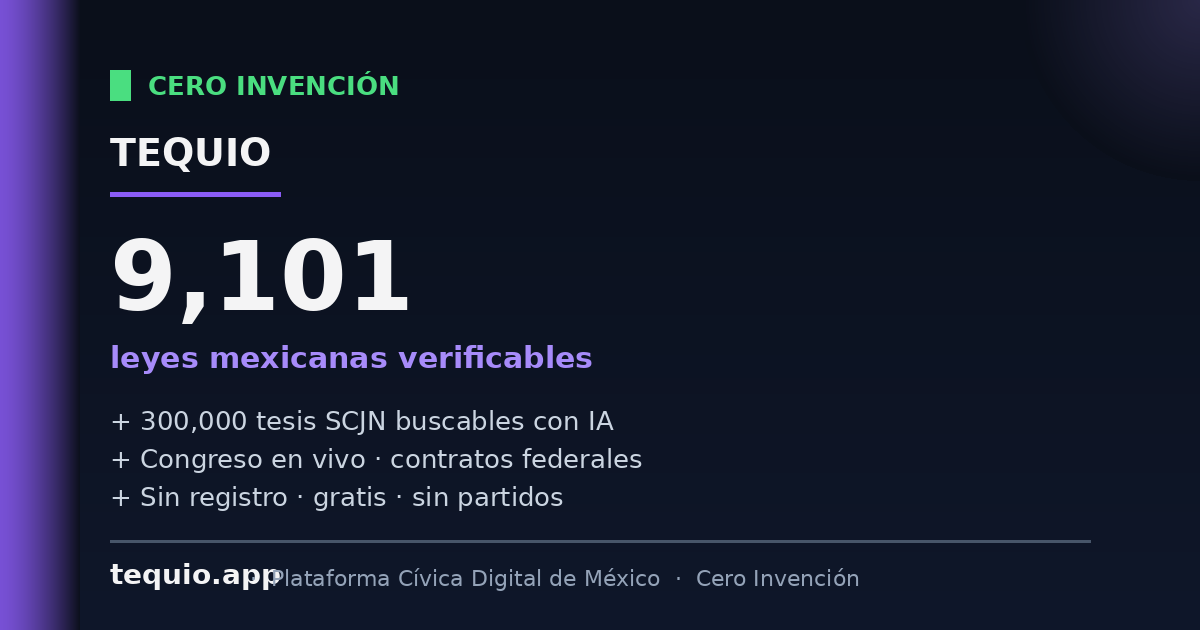
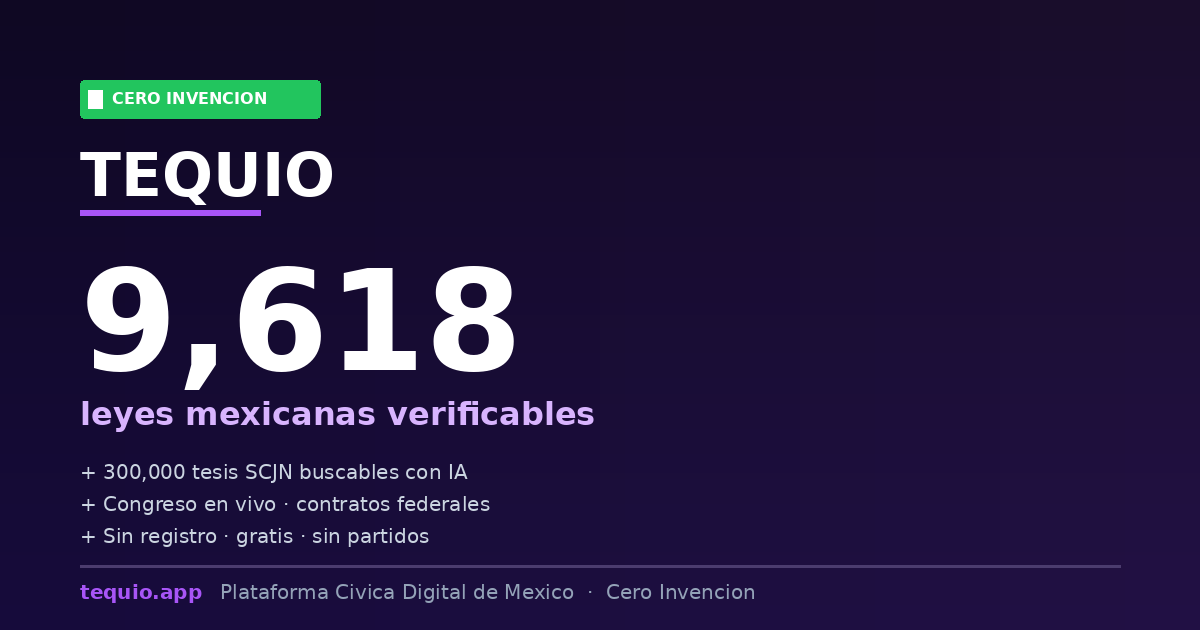
fix(og): regenerar og-image.png con cifra real + auto-refresh weekly
Bug detectado por usuario el 13-jun: WhatsApp link preview mostraba
9,101 leyes pero la app servia 9,618. Root cause: og-image.png era
PNG estatico horneado con cifra vieja (9,101). WhatsApp/Telegram
renderizan el PNG, no los meta tags.

Fix:
- scripts/generate_og_image.py: regenera el PNG con cifra actual
  desde kpis_globales_cache (Pillow + requests, 156 lineas).
- og-image.png: regenerado con 9,618 leyes (la cifra honesta post
  exclusion de 56 fantasmas).
- .github/workflows/og-image-refresh.yml: cron lunes 09:00 UTC +
  workflow_run tras sync-kpis-fallback + commit auto si cambio.

Asi nunca mas mienten las cifras de las previews sociales.

Heads-up: WhatsApp cachea OG aggresively (~7-30 dias). Para forzar
refresh hoy, usar https://developers.facebook.com/tools/debug/
con la URL https://tequio.app

Refs #2

Changed region(s): [[0.0, 0.0, 1.0, 1.0], [0.9867, 0.2714, 1.0, 0.3016], [0.9867, 0.0, 1.0, 0.0302]]

diff --git a/scripts/generate_og_image.py b/scripts/generate_og_image.py
@@ -1,0 +1,156 @@
+#!/usr/bin/env python3
+"""
+generate_og_image.py - regenerate og-image.png with current Supabase counts.
+
+Bug detectado 13-jun-2026: og-image.png era estatica con "9,101 leyes"
+mientras la app servia 9,618. WhatsApp/Telegram renderizan el PNG, no
+los meta tags, asi que el preview mentia.
+
+Fix: este script reads count actual desde Supabase, genera PNG nuevo
+con PIL, sobreescribe og-image.png. Ejecutar:
+  python3 scripts/generate_og_image.py
+o desde GH Actions (weekly cron).
+
+Env vars:
+  SUPABASE_URL, SUPABASE_ANON_KEY
+
+Refs #2
+"""
+import os
+import sys
+import requests
+from PIL import Image, ImageDraw, ImageFont
+
+SUPABASE_URL = os.environ.get('SUPABASE_URL', '').rstrip('/')
+ANON = os.environ.get('SUPABASE_ANON_KEY', '')
+OUT_PATH = os.environ.get('OG_OUT', 'og-image.png')
+
+if not (SUPABASE_URL and ANON):
+    print('FATAL: SUPABASE_URL/SUPABASE_ANON_KEY missing', flush=True)
+    sys.exit(1)
+
+
+def get_kpis():
+    r = requests.get(
+        f'{SUPABASE_URL}/rest/v1/kpis_globales_cache',
+        headers={'apikey': ANON, 'Authorization': f'Bearer {ANON}'},
+        params={'select': 'payload', 'id': 'eq.1', 'limit': '1'},
+        timeout=15,
+    )
+    r.raise_for_status()
+    rows = r.json()
+    if not rows:
+        raise RuntimeError('kpis_globales_cache vacio')
+    return rows[0].get('payload') or {}
+
+
+def find_font(size, bold=False):
+    """Busca fuente del sistema. Fallback a default si no hay."""
+    candidates = []
+    if bold:
+        candidates += [
+            '/usr/share/fonts/truetype/dejavu/DejaVuSans-Bold.ttf',
+            '/System/Library/Fonts/Helvetica.ttc',
+            'C:/Windows/Fonts/arialbd.ttf',
+        ]
+    else:
+        candidates += [
+            '/usr/share/fonts/truetype/dejavu/DejaVuSans.ttf',
+            '/System/Library/Fonts/Helvetica.ttc',
+            'C:/Windows/Fonts/arial.ttf',
+        ]
+    for path in candidates:
+        if os.path.exists(path):
+            return ImageFont.truetype(path, size)
+    return ImageFont.load_default()
+
+
+def fmt_num(n):
+    return f'{int(n):,}'
+
+
+def generate(leyes, chunks_embedded):
+    W, H = 1200, 630
+
+    # Fondo: degradado morado oscuro
+    img = Image.new('RGB', (W, H), (15, 8, 35))
+    px = img.load()
+    for y in range(H):
+        # Degradado vertical sutil
+        r = int(15 + (y / H) * 8)
+        g = int(8 + (y / H) * 4)
+        b = int(35 + (y / H) * 25)
+        for x in range(W):
+            # Toque diagonal con verde-azul
+            dx = (x / W) * 12
+            px[x, y] = (r + int(dx), g + int(dx * 0.5), b + int(dx * 0.8))
+
+    draw = ImageDraw.Draw(img)
+
+    # Badge "CERO INVENCION"
+    badge_x, badge_y = 80, 80
+    badge_w, badge_h = 240, 38
+    draw.rounded_rectangle(
+        (badge_x, badge_y, badge_x + badge_w, badge_y + badge_h),
+        radius=4,
+        fill=(34, 197, 94),
+    )
+    # Cuadrito verde a la izquierda dentro
+    draw.rectangle((badge_x + 8, badge_y + 10, badge_x + 22, badge_y + 28), fill=(255, 255, 255))
+    f_badge = find_font(16, bold=True)
+    draw.text((badge_x + 32, badge_y + 9), 'CERO INVENCION', fill=(255, 255, 255), font=f_badge)
+
+    # Logo "TEQUIO"
+    f_logo = find_font(60, bold=True)
+    draw.text((80, 140), 'TEQUIO', fill=(255, 255, 255), font=f_logo)
+    # Underline morado bajo logo
+    draw.rectangle((80, 210, 260, 215), fill=(168, 85, 247))
+
+    # Numero gigante
+    n_text = fmt_num(leyes)
+    f_num = find_font(140, bold=True)
+    draw.text((80, 240), n_text, fill=(255, 255, 255), font=f_num)
+
+    # Subtitulo
+    f_sub = find_font(32, bold=True)
+    draw.text((80, 395), 'leyes mexicanas verificables', fill=(216, 180, 254), font=f_sub)
+
+    # Bullets
+    f_bul = find_font(20)
+    bullets = [
+        '+ 300,000 tesis SCJN buscables con IA',
+        '+ Congreso en vivo · contratos federales',
+        '+ Sin registro · gratis · sin partidos',
+    ]
+    y_b = 460
+    for b in bullets:
+        draw.text((80, y_b), b, fill=(203, 213, 225), font=f_bul)
+        y_b += 32
+
+    # Separator line
+    draw.rectangle((80, 565, W - 80, 567), fill=(75, 60, 110))
+
+    # Footer
+    f_foot = find_font(20, bold=True)
+    f_foot_light = find_font(20)
+    draw.text((80, 580), 'tequio.app', fill=(168, 85, 247), font=f_foot)
+    draw.text((220, 580), 'Plataforma Civica Digital de Mexico  ·  Cero Invencion',
+              fill=(148, 163, 184), font=f_foot_light)
+
+    img.save(OUT_PATH, 'PNG', optimize=True)
+    print(f'Generado {OUT_PATH} ({os.path.getsize(OUT_PATH)} bytes) con leyes={leyes:,}', flush=True)
+
+
+def main():
+    payload = get_kpis()
+    leyes = payload.get('leyes') or 0
+    chunks_embedded = payload.get('chunks_embedded') or 0
+    if not leyes:
+        print('FATAL: leyes count = 0 en kpis_globales_cache', flush=True)
+        sys.exit(1)
+    print(f'KPIs vivos: leyes={leyes:,} chunks_embedded={chunks_embedded:,}', flush=True)
+    generate(leyes, chunks_embedded)
+
+
+if __name__ == '__main__':
+    main()